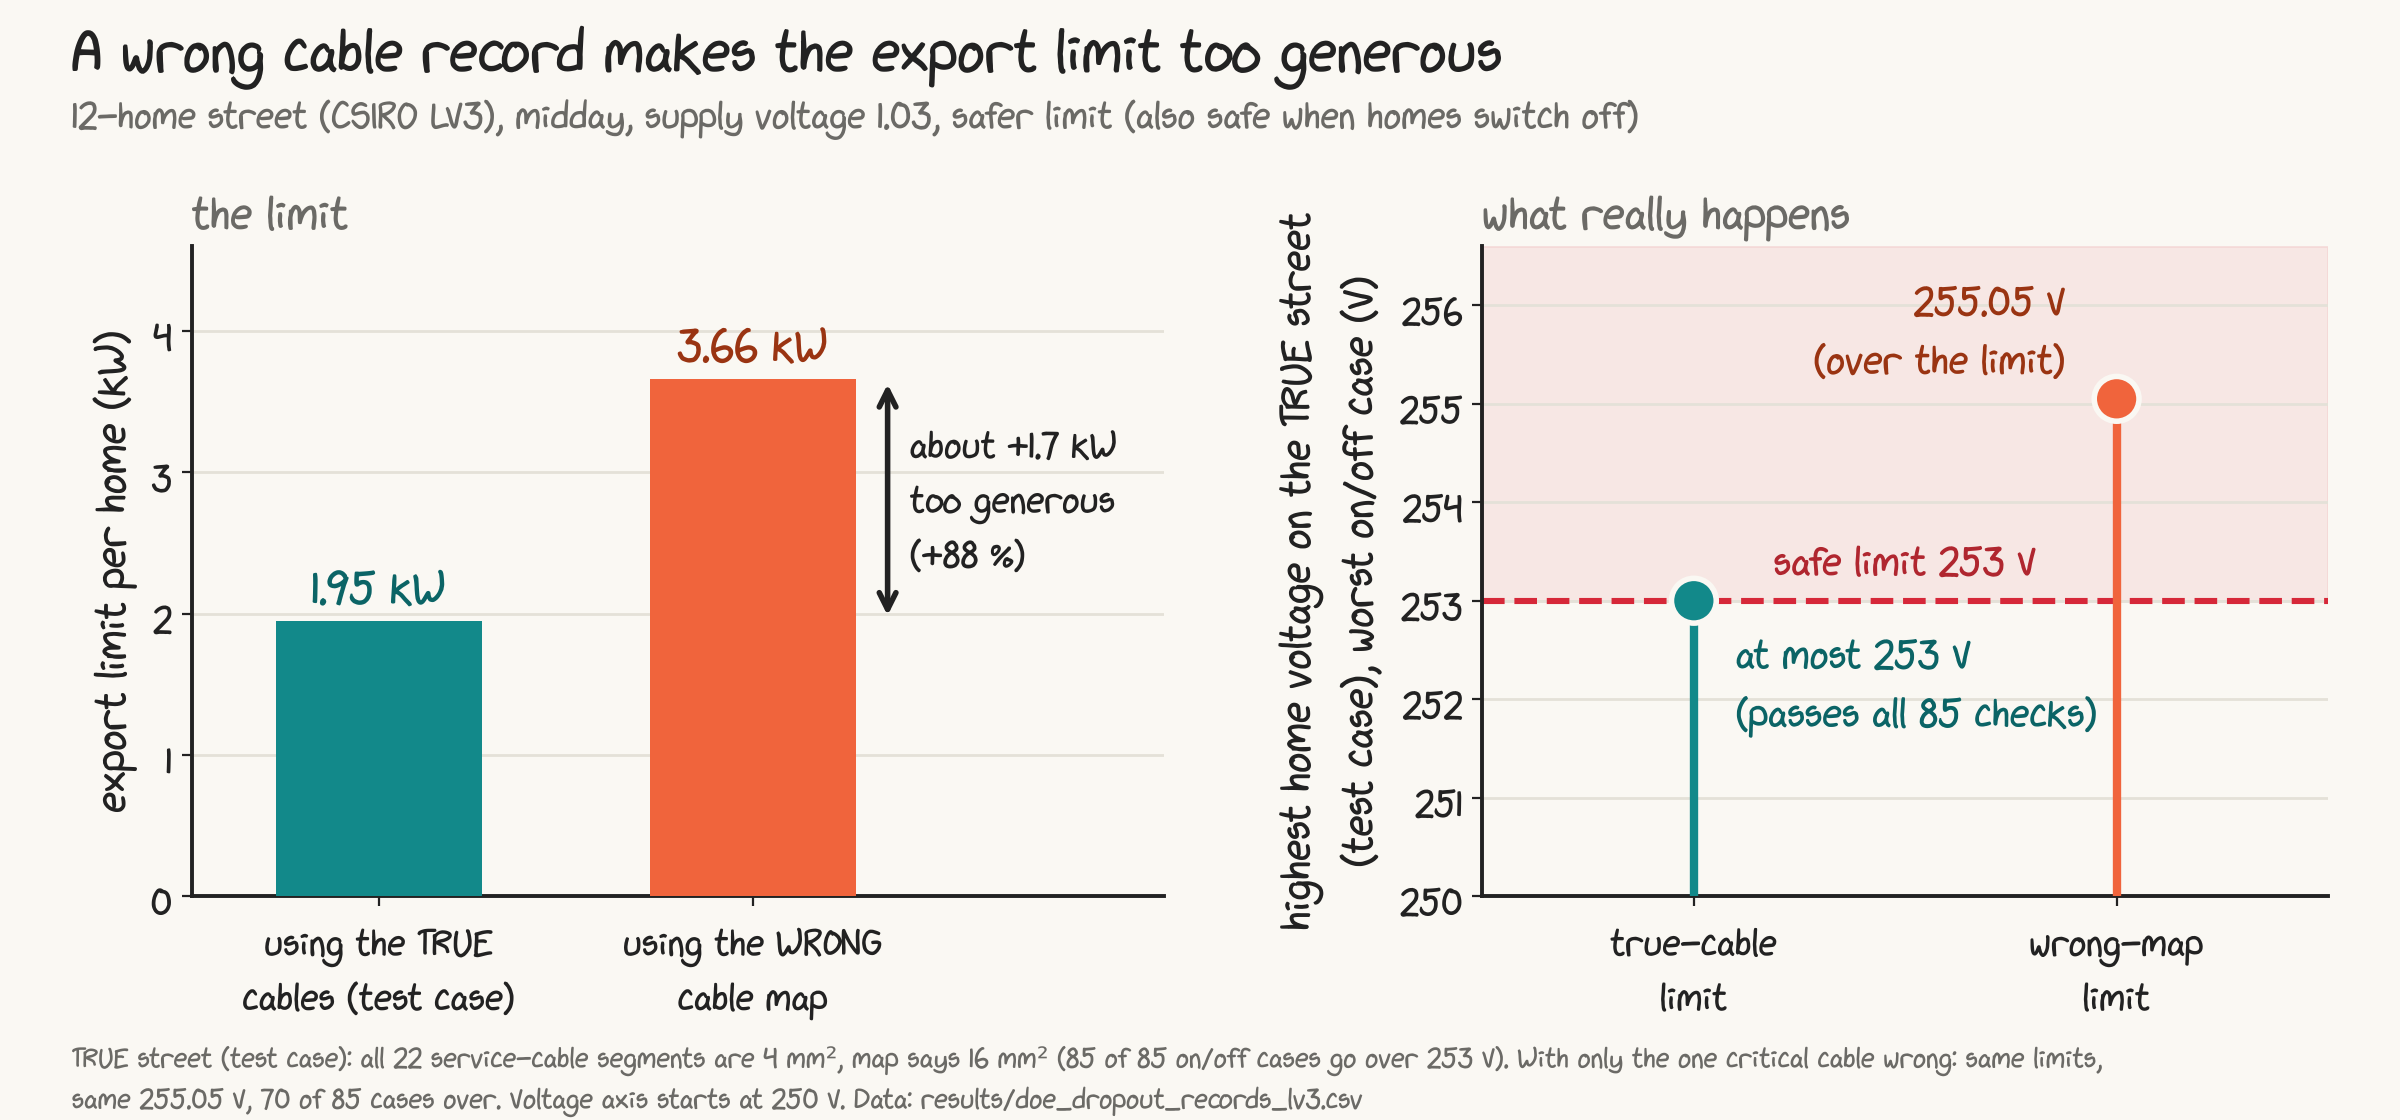
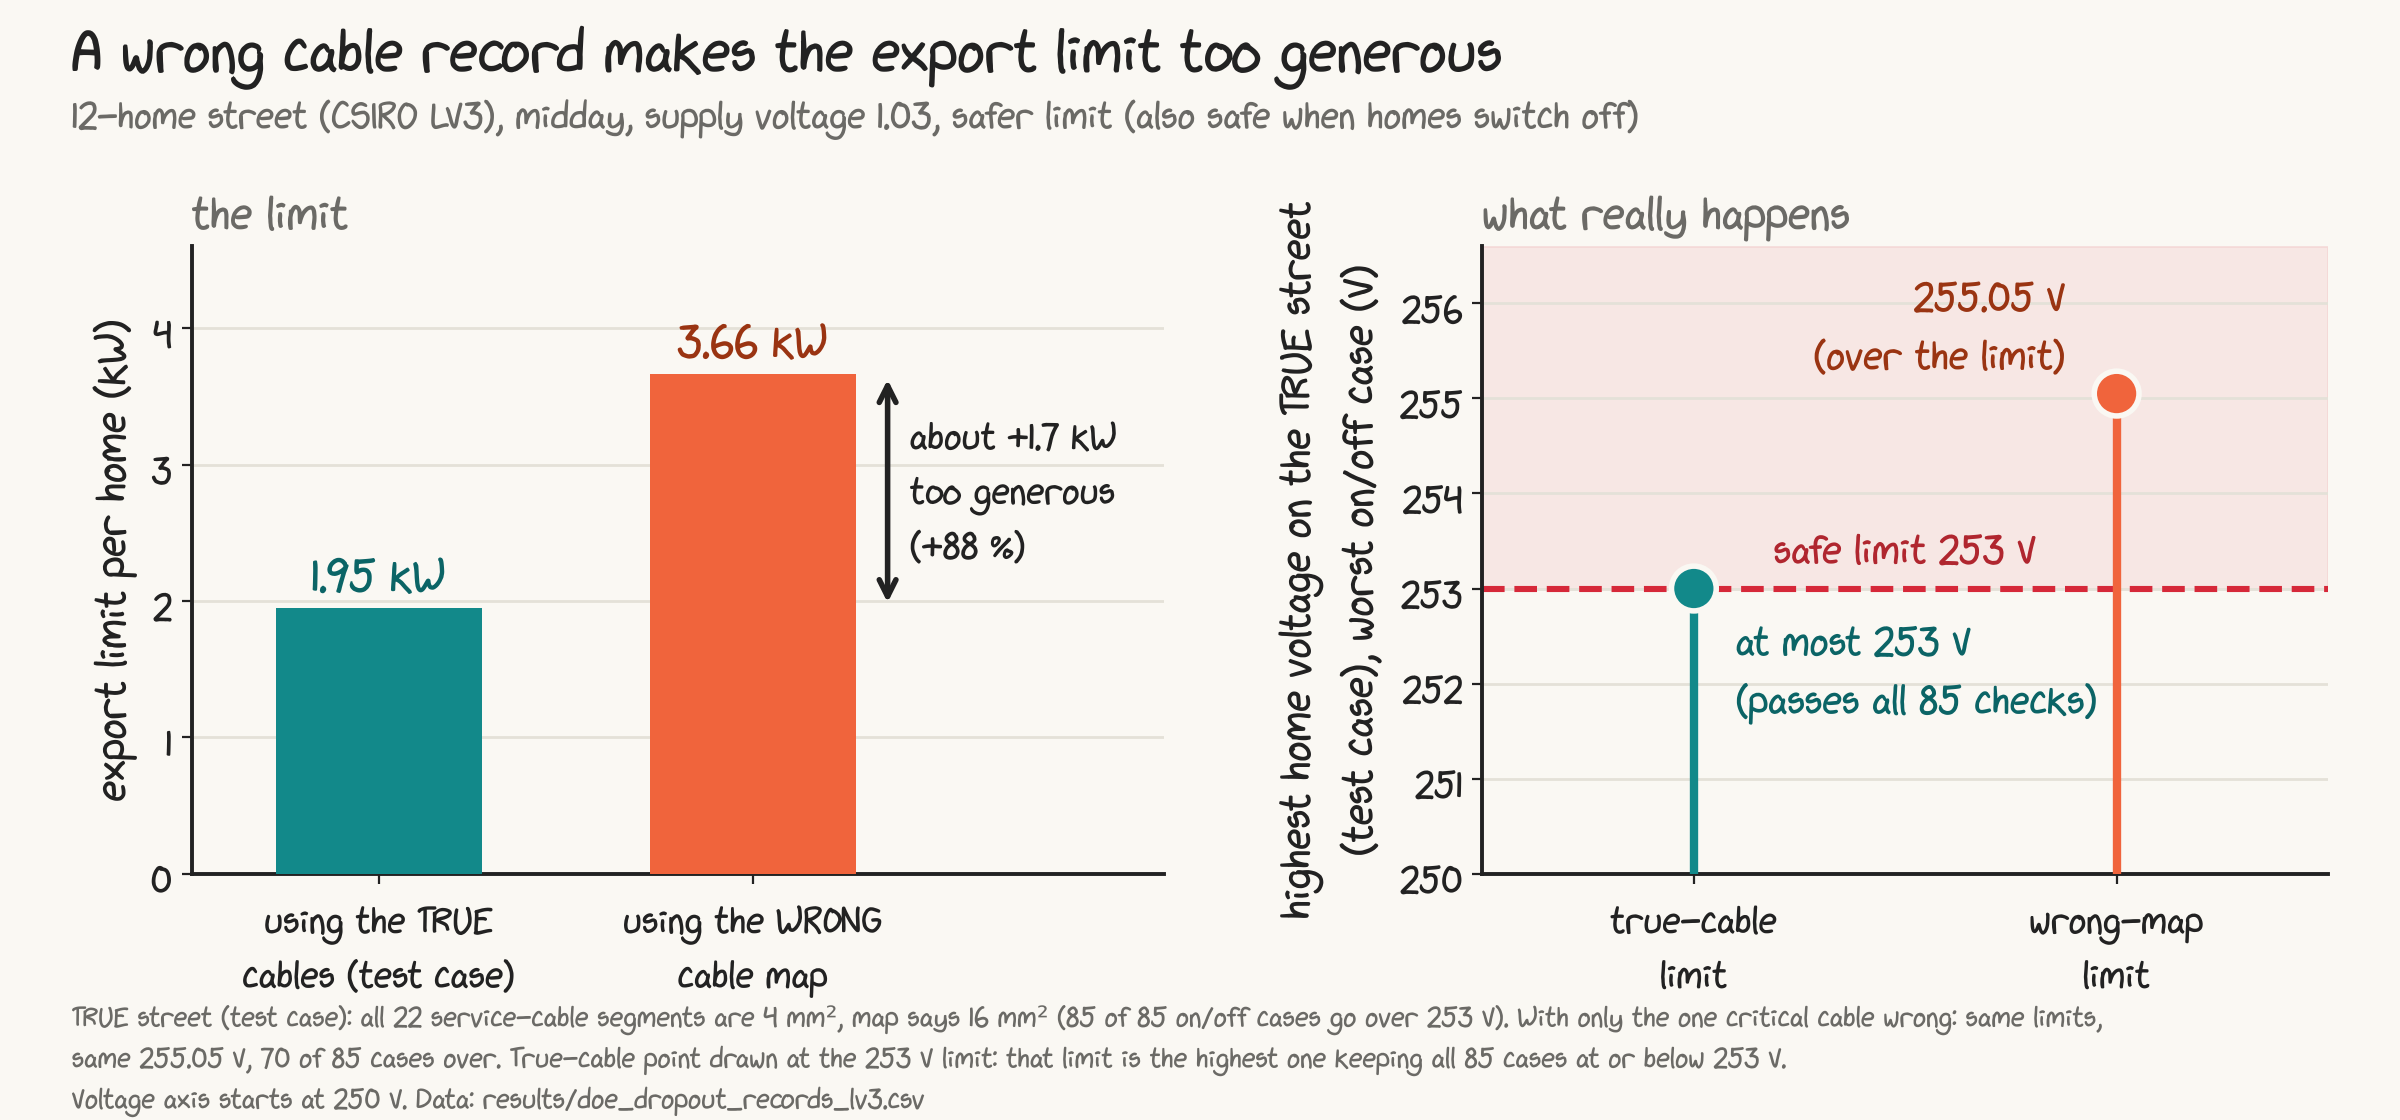
fig_wrong_record: say the true-cable point is drawn at the 253 V limit
Claude-Session: https://claude.ai/code/session_01YLemEPW87EuHg3uB24Vzoz

diff --git a/figures/fig_wrong_record.py b/figures/fig_wrong_record.py
@@ -49,7 +49,8 @@ a2.set_xlim(-0.5, 1.5)
 a2.grid(axis="x", visible=False)
 a2.set_title("what really happens", loc="left", fontsize=17, color=MUTED)
 fig.text(0.03, 0.01, "TRUE street (test case): all 22 service-cable segments are 4 mm\u00b2, map says 16 mm\u00b2 (85 of 85 on/off cases go over 253 V). With only the one critical cable wrong: same limits,\n"
-         "same 255.05 V, 70 of 85 cases over. Voltage axis starts at 250 V. Data: results/doe_dropout_records_lv3.csv", fontsize=10.5, color=MUTED)
-fig.subplots_adjust(top=0.78, bottom=0.2, left=0.08, right=0.97)
+         "same 255.05 V, 70 of 85 cases over. True-cable point drawn at the 253 V limit: that limit is the highest one keeping all 85 cases at or below 253 V.\n"
+         "Voltage axis starts at 250 V. Data: results/doe_dropout_records_lv3.csv", fontsize=10.5, color=MUTED)
+fig.subplots_adjust(top=0.78, bottom=0.22, left=0.08, right=0.97)
 fig.savefig("fig_wrong_record.png", dpi=200)
 print("ok")
